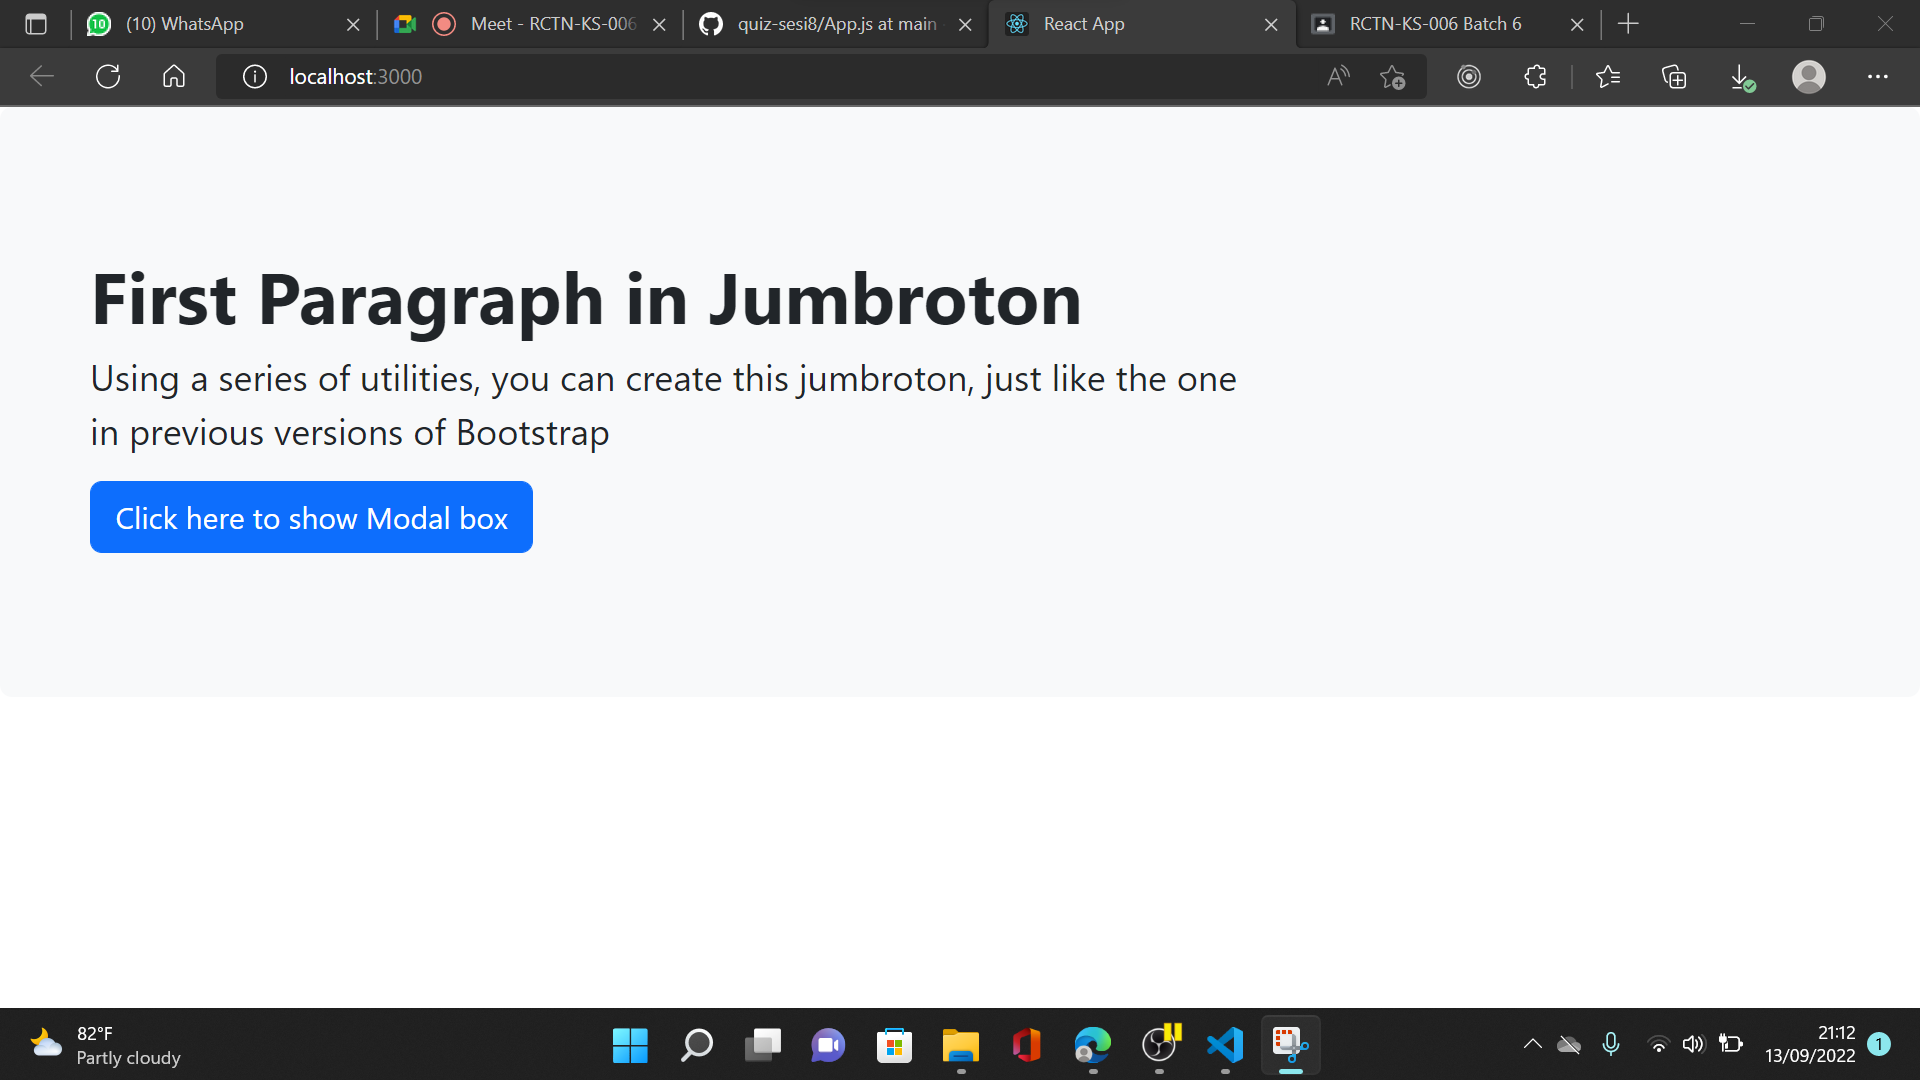
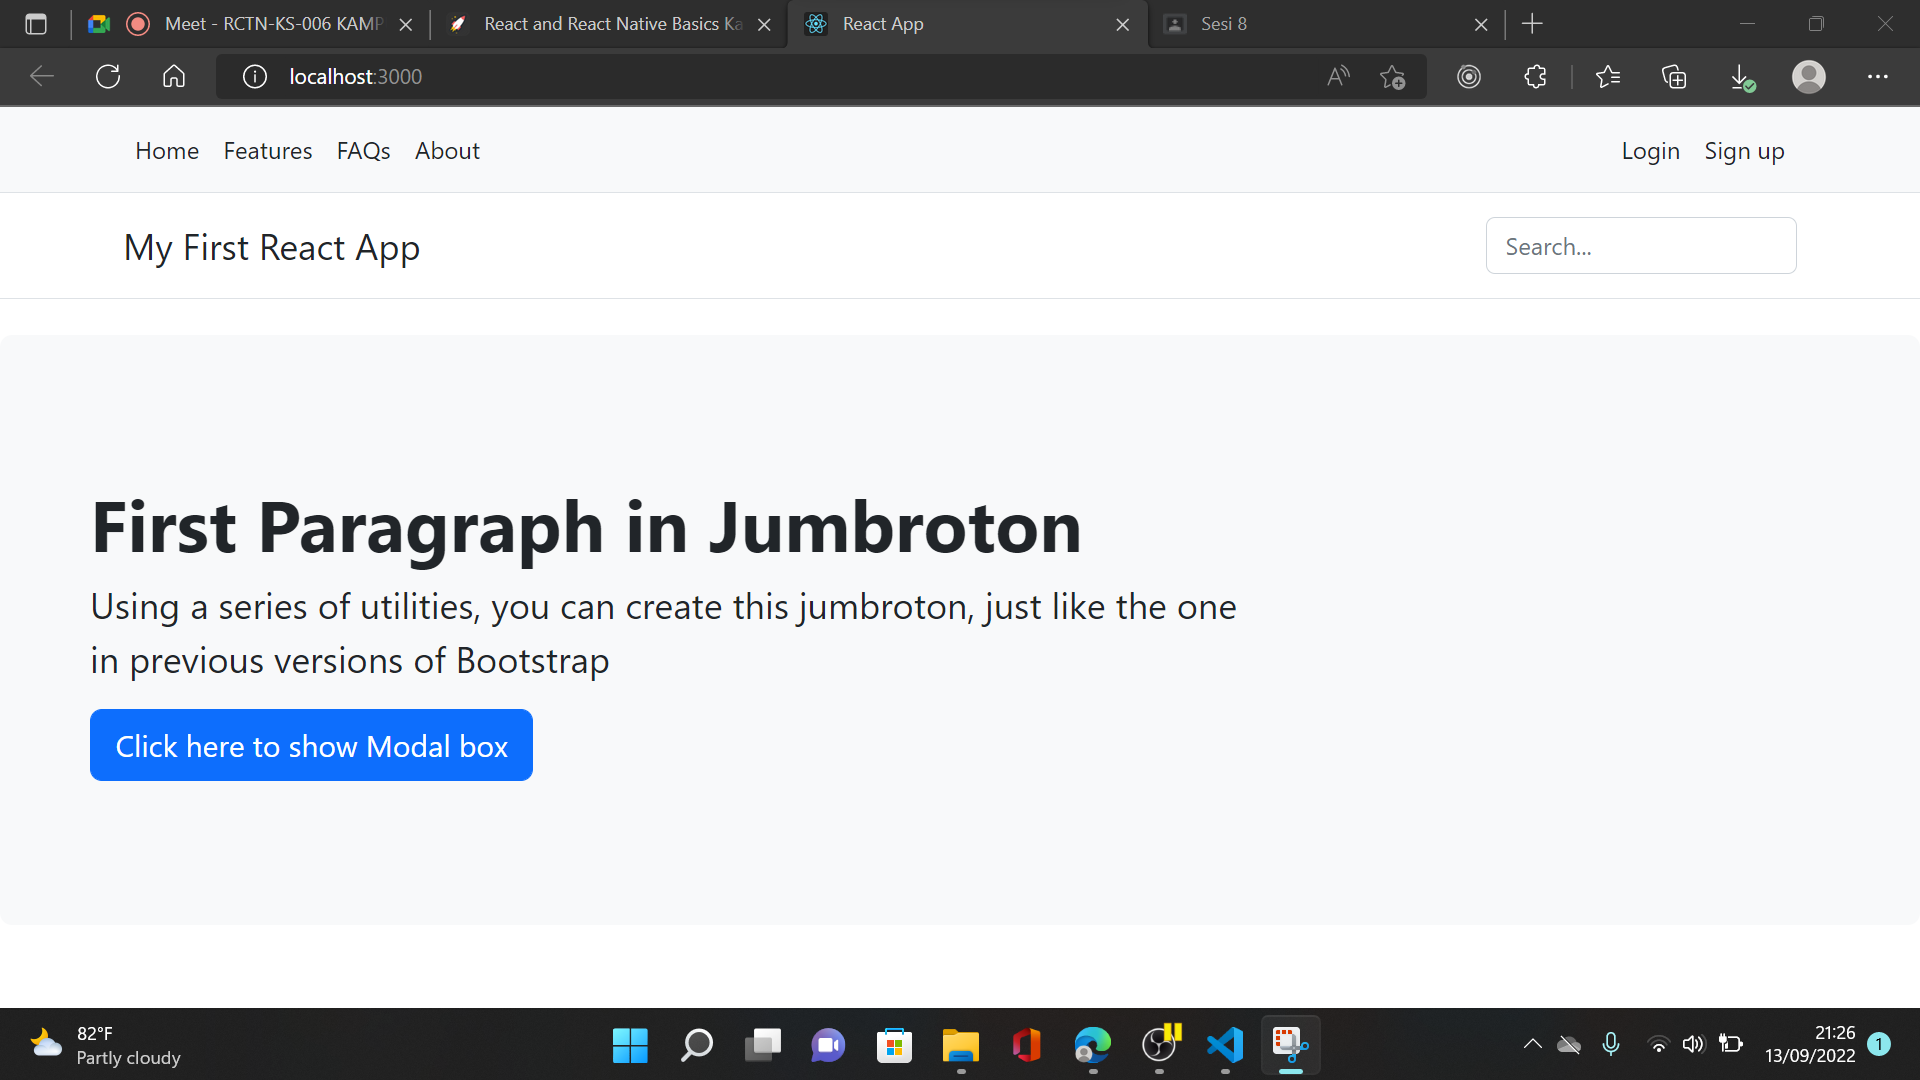
add header

diff --git a/src/components/Header.js b/src/components/Header.js
@@ -1,0 +1,45 @@
+function Header() {
+    return (
+        <>
+            <nav className="py-2 bg-light border-bottom">
+                <div className="container d-flex flex-wrap">
+                    <ul className="nav me-auto">
+                        <li className="nav-item">
+                            <a href="/" className="nav-link link-dark px-2 active">Home</a>
+                        </li>
+                        <li className="nav-item">
+                            <a href="/" className="nav-link link-dark px-2">Features</a>
+                        </li>
+                        <li className="nav-item">
+                            <a href="/" className="nav-link link-dark px-2">FAQs</a>
+                        </li>
+                        <li className="nav-item">
+                            <a href="/" className="nav-link link-dark px-2">About</a>
+                        </li>
+                    </ul>
+                    <ul className="nav">
+                        <li className="nav-item">
+                            <a href="/" className="nav-link link-dark px-2">Login</a>
+                        </li>
+                        <li className="nav-item">
+                            <a href="/" className="nav-link link-dark px-2">Sign up</a>
+                        </li>
+                    </ul>
+                </div>
+            </nav>
+            <header className="py-3 mb-4 border-bottom">
+                <div className="container d-flex flex-wrap justify-content-center">
+                    <a href="/" className="d-flex align-items-center mb-3 mb-lg-0 me-lg-auto text-dark text-decoration-none">
+                        <span className="fs-4">My First React App</span>
+                    </a>
+                    <form className="col-12 col-lg-auto mb-3 mb-lg-0">
+                        <input type="search" className="form-control" placeholder="Search..." aria-label="Search"></input>
+                    </form>
+                </div>
+            </header>
+        
+        </>
+    )
+}
+
+export default Header;

diff --git a/src/App.js b/src/App.js
@@ -1,11 +1,12 @@
-import logo from './logo.svg';
 import './App.css';
 import "bootstrap";
 import "bootstrap/dist/css/bootstrap.min.css"
+import Header from './components/Header';
 
 function App() {
   return (
     <>
+    <Header />
       <div className="p-5 mb-4 bg-light rounded-3">
         <div className="container-fluid py-5">
           <h1 className="display-5 fw-bold">First Paragraph in Jumbroton</h1>
